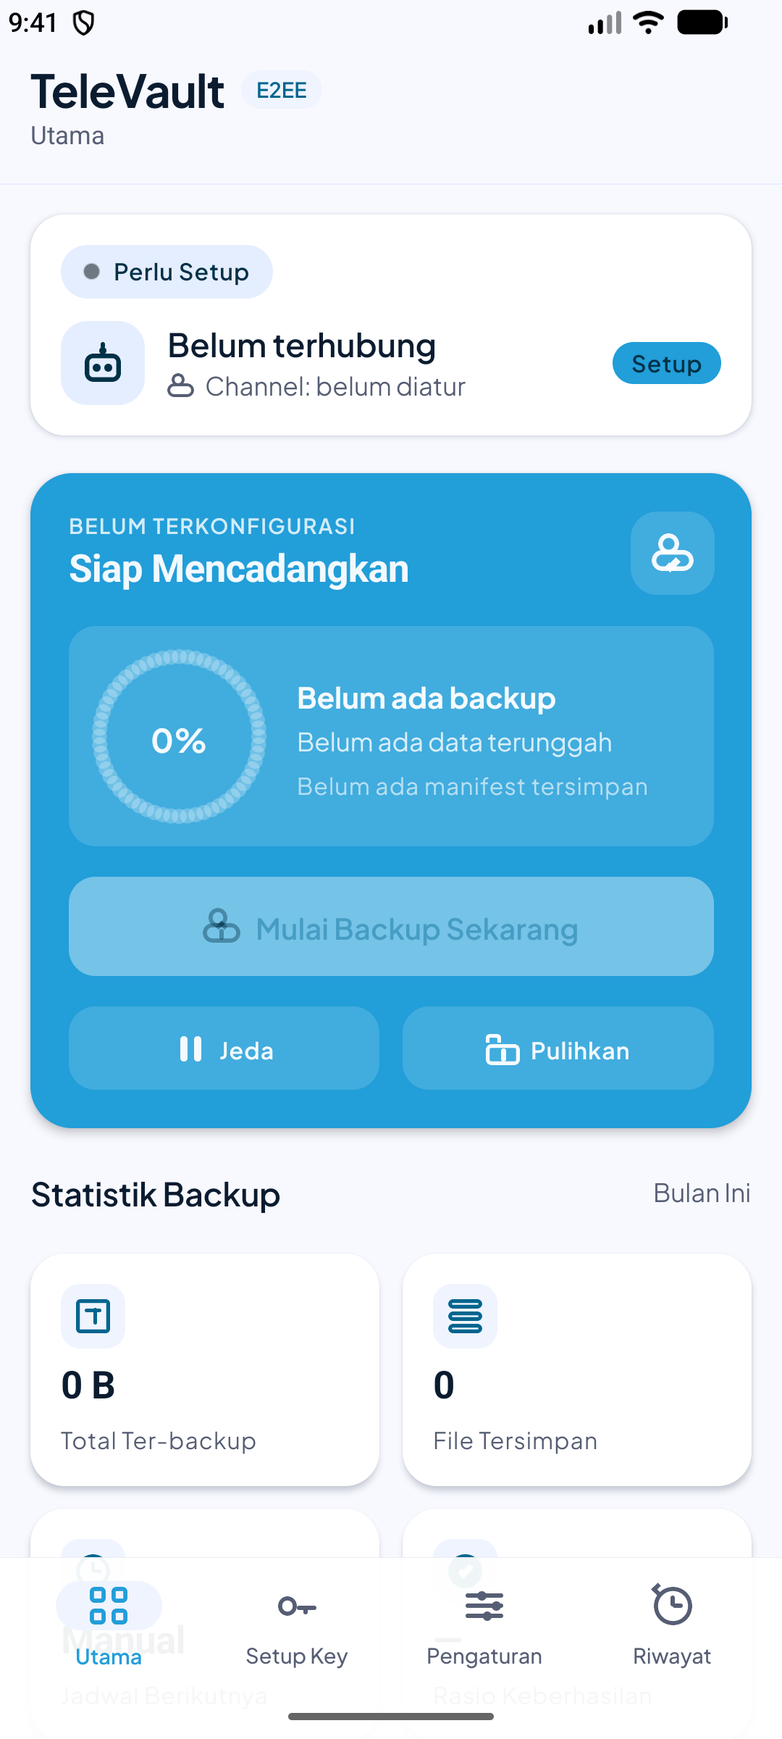
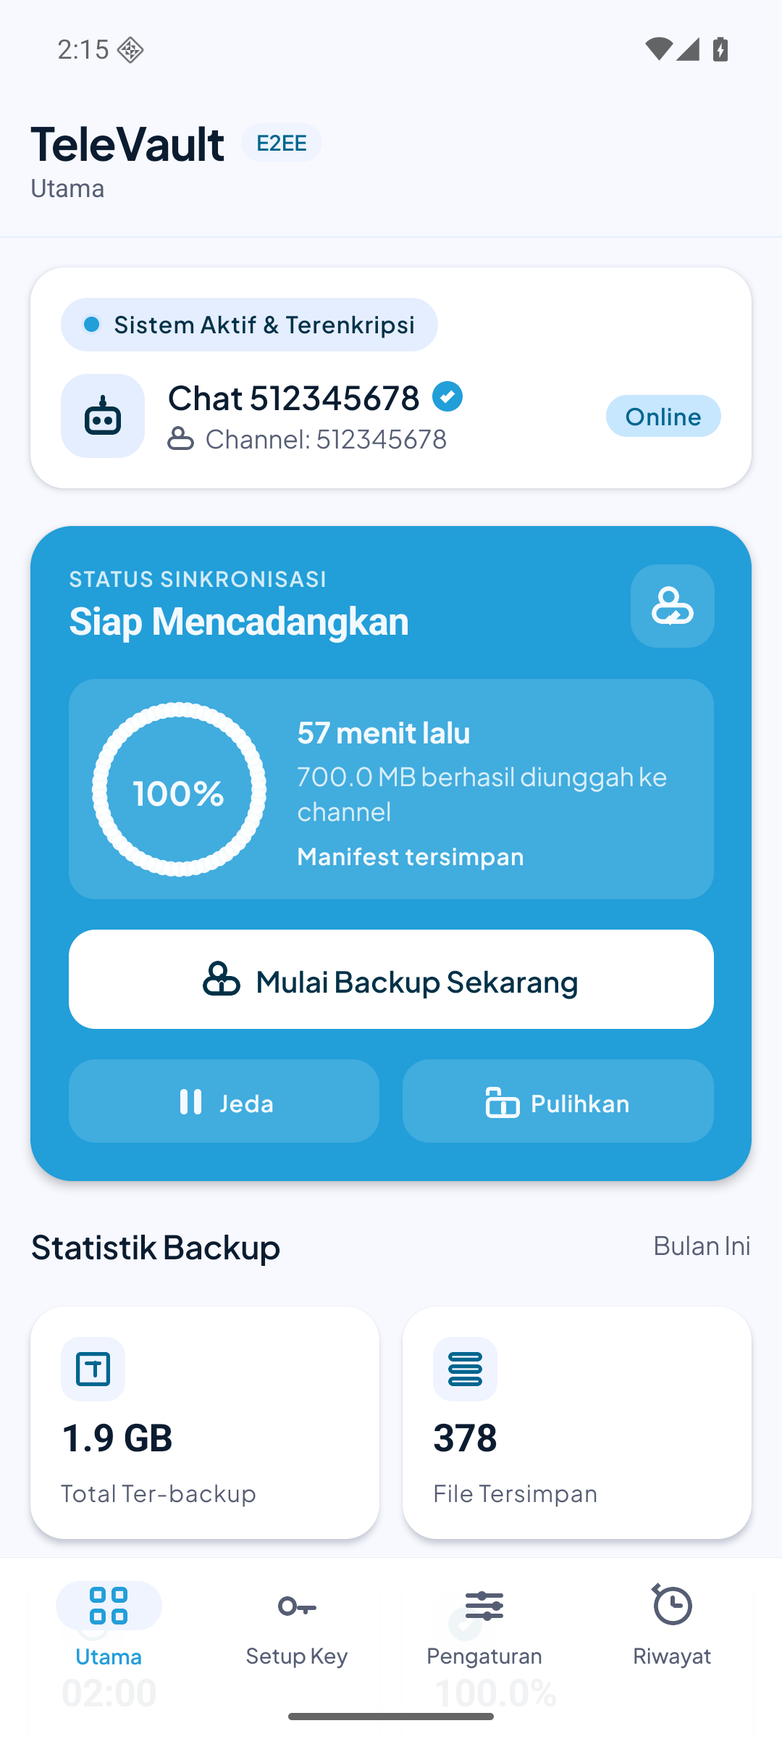
docs(readme): susun ulang README dan perbarui tangkapan layar
README dipecah jadi ringkasan, tabel tampilan, empat kelompok fitur, detail
teknis, instalasi, build, rilis, dan batasan, supaya bisa dipindai tanpa
membaca paragraf panjang. Badge dan footer menandai VibeCoded App.

Tangkapan layar diganti dengan build v1.6.2 di emulator Android 16: layar
Utama, Riwayat, Setup, dan Pengaturan, termasuk kartu progres dan popup
kegagalan yang sebelumnya belum ada. Nama berkas APK di panduan instalasi
dan checklist rilis mengikuti aset baru.

diff --git a/README.md b/README.md
@@ -1,78 +1,93 @@
 <div align="center">
 
-<img src="docs/logo.png" width="180" alt="TeleVault" />
+<img src="docs/logo.png" width="150" alt="TeleVault" />
 
 # TeleVault
 
-**Backup terenkripsi dari HP Android langsung ke Telegram**, tanpa server, tanpa langganan cloud.
-
-File besar dipotong, dienkripsi di perangkat, lalu dikirim sebagai dokumen ke chat bot pribadi kamu.
-Dari chat itu semuanya bisa dipulihkan lagi lewat aplikasi.
+**Backup terenkripsi dari HP Android langsung ke Telegram.** Tanpa server, tanpa langganan cloud.
 
 [![CI](https://github.com/ryznoxy/televault/actions/workflows/ci.yml/badge.svg)](https://github.com/ryznoxy/televault/actions/workflows/ci.yml)
 [![Release](https://github.com/ryznoxy/televault/actions/workflows/release.yml/badge.svg)](https://github.com/ryznoxy/televault/actions/workflows/release.yml)
+[![Rilis](https://img.shields.io/github/v/release/ryznoxy/televault?label=rilis)](https://github.com/ryznoxy/televault/releases)
 ![React Native](https://img.shields.io/badge/React%20Native-0.87-61DAFB)
 ![Platform](https://img.shields.io/badge/platform-Android-lightgrey)
+![VibeCoded App](https://img.shields.io/badge/VibeCoded-App-7C3AED)
 
 </div>
 
 ---
 
+## Ringkasan
+
+TeleVault memindahkan backup HP kamu ke chat bot Telegram pribadi. Berkas dipindai dari galeri atau folder pilihan, dienkripsi di perangkat, dipotong sesuai batas Bot API, lalu dikirim sebagai dokumen. Kunci enkripsi tidak pernah meninggalkan HP, dan pemulihan bisa dilakukan dari aplikasi atau dari skrip yang ikut terkirim.
+
+Cocok untuk yang ingin backup rutin tanpa menyewa storage: Telegram sudah jadi tempat penyimpanannya, aplikasi ini yang mengurus enkripsi, jadwal, dan pemulihan.
+
 ## Tampilan
 
 | Utama | Riwayat |
 |:---:|:---:|
-| ![Layar Utama](docs/home.png) | ![Layar Riwayat](docs/stats.png) |
+| <img src="docs/home.png" width="260" alt="Layar Utama" /> | <img src="docs/stats.png" width="260" alt="Layar Riwayat" /> |
 | **Setup** | **Pengaturan** |
-| ![Layar Setup](docs/setup.png) | ![Layar Pengaturan](docs/settings.png) |
+| <img src="docs/setup.png" width="260" alt="Layar Setup" /> | <img src="docs/settings.png" width="260" alt="Layar Pengaturan" /> |
 
 ## Fitur
 
-- **Enkripsi di perangkat**: AES-256-GCM, kunci dari PBKDF2-SHA256 (210.000 iterasi, salt 16 byte, IV 12 byte **per potongan**). Passphrase tidak pernah dikirim ke Telegram; hanya salt dan IV-nya.
-- **Kategori backup**: Photos, Videos, Documents, dan folder custom bebas lewat SAF (juga di Android). Contacts dan SMS menyusul (lihat [Batasan](#batasan-yang-diketahui)).
-- **Chunking**: file dipecah maksimal 49 MB per bagian supaya lolos batas 50 MB Bot API; dengan enkripsi aktif batasnya 16 MB supaya puncak RAM tetap rendah. Arsip dinamai `backup-<waktu>.zip` (contoh `backup-2026-10-20-09-31-00.zip`), potongannya `…zip.001`, `.002`, dan seterusnya. Berkas yang hanya jadi satu potongan diunggah dengan nama aslinya, jadi foto dan video tampil dengan pratinjau di Telegram, bukan sebagai `IMG_0001.jpg.001`. Setiap potongan dienkripsi sendiri, jadi backup multi-GB tidak perlu menahan seluruh arsip di memori.
-- **Backup inkremental**: file yang `mtime`-nya tidak berubah dilewati, jadi backup harian hanya mengunggah yang baru. Maksimal berkas per run bisa diatur (default 250); sisanya lanjut otomatis di run berikutnya.
-- **Kirim media langsung**: foto dan video di bawah batas ukuran (default 45 MB, maksimal 45 MB) dikirim apa adanya ke Telegram dengan nama aslinya, jadi langsung tampil dengan pratinjau; yang lebih besar tetap di-zip. Fitur ini butuh enkripsi mati, karena berkas terenkripsi (`.enc`) tidak bisa dibuka di Telegram dan potongan terenkripsinya dibatasi 16 MB. Nonaktifkan tombolnya kalau mau semua di-zip.
-- **Manifest dan skrip reassembly**: setiap arsip mengirim `<nama>.manifest.json` (ukuran, jumlah chunk, SHA-256, daftar IV, info enkripsi) plus skrip `.sh`/`.bat` untuk menyatukan potongan tanpa aplikasi.
-- **Restore one-tap dari bot**: pilih sesi di layar Pulihkan, manifest dan semua potongan diunduh otomatis dari chat bot, lalu gabung, verifikasi SHA-256, dekripsi per potongan, ekstrak zip. Tersedia untuk backup yang dibuat sejak v1.1.0 (app menyimpan `file_id` Telegram tiap potongan; DB lokal yang menyimpannya hilang kalau app dihapus). Backup lama tetap bisa dipulihkan manual: download potongan dan manifest dari Telegram, lalu "Pilih berkas backup". Iterasi PBKDF2 restore mengikuti yang tercatat di manifest (minimum 210.000), jadi backup lama tetap bisa dibuka.
-- **Uji Pemulihan (drill)**: satu tombol di Troubleshooting yang mengunduh arsip terkecil dari Telegram, mendekripsi, lalu mencocokkan hash-nya di folder sementara. Membuktikan backup benar-benar bisa dipulihkan, bukan sekadar berharap.
-- **Self-update**: app membaca versi terpasang langsung dari `PackageManager`, lalu membandingkan dengan rilis terbaru di [Releases](https://github.com/ryznoxy/televault/releases) (maksimal 1 cek sukses per jam, plus cek saat app dibuka kembali). Kalau ada versi baru, alert muncul melayang di atas layar mana pun - bukan cuma di tab - dengan tombol **Perbarui** dan **Nanti**, progres unduh, dan tombol batal. Rilis yang ditemukan disimpan, jadi restart app dalam jam tenang tetap menampilkannya. APK diverifikasi SHA-256 sebelum installer terbuka, dan dibuang kalau tidak cocok. Tombol **Cek Pembaruan** di Pengaturan melewati throttle dan memunculkan alert lagi walau sudah pernah ditutup.
-- **Modal "Apa baru"**: sekali sehabis update, ringkasan perubahan versi tampil di app (per versi, dari `src/update/whatsNew.ts`).
-- **Notifikasi status permanen**: satu notifikasi ongoing low-priority menampilkan kapan backup terakhir berjalan, bukti app tetap hidup di latar belakang. Saat backup berjalan, notifikasi foreground service memuat progres persen dan kecepatan upload. Disembunyikan otomatis saat otomasi dijeda atau mode manual.
-- **Tour persiapan latar belakang**: sehabis setup pertama, tour 3 langkah memandu izin tanpa optimasi baterai (dialog sistem langsung) dan autostart per merek HP. Bisa diulang dari Troubleshooting.
-- **Setup tanpa browser**: Chat ID dideteksi otomatis: kirim pesan ke bot, tekan Deteksi Otomatis, kolom terisi sendiri (wajib ID angka; bot tidak bisa mengirim ke @username untuk chat pribadi atau grup privat).
-- **Penjadwalan**: manual, interval (jam), jam tertentu tiap hari, atau hanya saat charging. Jadwal jam tertentu memakai alarm eksak bentuk alarm jam (`setAlarmClock`), bukan job periodik yang bisa digeser Doze, dan alarm itu yang menjalankan backup di latar belakang. Alarm dipasang ulang setelah HP reboot atau jam/zona waktu berubah, tanpa perlu app dibuka. Selama jadwal aktif, ikon alarm tampil di status bar (tap ikon itu membuka app); itu konsekuensi memakai alarm bentuk alarm jam, tidak ada suara atau dering yang dibunyikan app.
-- **Jalan di background**: `react-native-background-fetch` plus foreground service, termasuk headless task saat aplikasi tertutup. Backup jam tertentu berjalan di foreground service milik alarm eksaknya sendiri, karena Android 12 ke atas menolak service yang dimulai dari job latar belakang.
-- **Upload tahan putus**: retry dengan backoff (`Retry-After` 429 dihormati, dibatasi 60 detik); progres, kecepatan upload, dan estimasi sisa waktu tampil di layar Utama; riwayat sesi dan statistik tersimpan lokal (SQLite) dan bisa diekspor CSV.
-- **Hentikan di tengah jalan**: tombol Hentikan di kartu progres layar Utama dan di notifikasi backup berjalan. Permintaan dicek antar potongan dan antar berkas, jadi tidak ada potongan setengah terkirim; berkas yang sudah naik tetap tercatat, sisanya lanjut di backup berikutnya, dan sesi ditutup sebagai `partial`.
-- **Progres lintas proses**: layar Utama membaca sesi yang sedang berjalan dari DB (kolom `chunks_sent`/`chunks_total`), bukan hanya state layar, jadi backup otomatis yang dijalankan alarm tetap terlihat progresnya meski app dibuka belakangan.
-- **Jeda kirim adaptif**: gap antar kiriman mulai dari 1 detik dan naik ke jendela `retry_after` saat Bot API menolak (429), lalu turun perlahan lagi kalau kiriman lancar. Percobaan 429 lebih banyak daripada error biasa supaya potongan tidak dilewati dan arsip tidak jadi tidak lengkap.
-- **Troubleshoot**: layar diagnostik untuk izin, koneksi bot, panduan baterai per OEM, kapan sistem terakhir membangunkan app, plus log error ringan (ring buffer 20 entri) supaya kegagalan yang tertelan tetap kelihatan. Ketuk "Kegagalan terakhir" untuk melihat alasan lengkapnya di popup.
-- **Wifi-only** (dicek di semua jalur: tombol manual, alarm jadwal, dan JobScheduler) dan passphrase strength check.
-- **Tema terang dan gelap**: toggle dark mode di Settings, semua layar ter-tokenisasi mengikuti.
+### Backup dan enkripsi
+
+- **Kategori**: Photos, Videos, Documents, dan folder sendiri lewat pemilih folder Android (SAF).
+- **Inkremental**: berkas yang tidak berubah dilewati, jadi backup harian hanya mengunggah yang baru.
+- **Batas per run**: jumlah berkas dibagi rata ke kategori yang punya berkas baru, sisanya lanjut di run berikutnya.
+- **Enkripsi di perangkat**: AES-256-GCM, kunci dari PBKDF2-SHA256, satu IV untuk setiap potongan.
+- **Kirim media langsung**: foto dan video di bawah 45 MB dikirim dengan nama aslinya sehingga tampil dengan pratinjau di Telegram.
+- **Zip opsional**: sisanya digabung per kategori, lalu dipotong maksimal 49 MB per bagian.
+- **Manifest dan skrip**: setiap arsip membawa manifest JSON plus skrip `.sh` dan `.bat` untuk menyatukan potongan tanpa aplikasi.
+
+### Penjadwalan dan latar belakang
+
+- **Empat mode**: manual, interval jam, jam tertentu tiap hari, atau hanya saat charging.
+- **Alarm eksak**: jadwal jam tertentu memakai alarm bentuk alarm jam, jadi tidak digeser Doze.
+- **Tahan reboot**: alarm dipasang ulang setelah HP reboot, jam diubah, atau zona waktu berpindah.
+- **Jalan tanpa app terbuka**: backup berjalan di foreground service milik alarm, termasuk headless task.
+- **Hanya Wi-Fi**: diperiksa di semua jalur, jadi backup terjadwal pun tidak jalan di data seluler.
+- **Hentikan di tengah jalan**: tombol Hentikan di layar Utama dan di notifikasi; potongan tidak pernah terkirim setengah.
+- **Progres lintas proses**: layar Utama membaca sesi berjalan dari database, jadi backup otomatis tetap terlihat progresnya.
+
+### Pemulihan
+
+- **Restore one-tap**: pilih sesi, unduh manifest dan semua potongan dari chat, gabung, verifikasi SHA-256, dekripsi, ekstrak.
+- **Restore manual**: unduh berkas dari Telegram lalu pilih lewat aplikasi, untuk backup lama atau HP baru.
+- **Uji pemulihan**: satu tombol di Troubleshooting yang mengunduh arsip terkecil, mendekripsi, dan mencocokkan hash-nya.
+- **Riwayat dan statistik**: sesi tersimpan di SQLite lokal, rasio keberhasilan dihitung dari run selesai, bisa diekspor CSV.
+
+### Antarmuka dan pembaruan
+
+- **Notifikasi status**: satu notifikasi senyap yang menunjukkan app aktif dan kapan backup terakhir berjalan.
+- **Notifikasi progres**: persen dan kecepatan unggah selama backup berjalan.
+- **Alert pembaruan**: muncul di atas layar mana pun, dengan tombol Perbarui dan Nanti, progres unduh, dan tombol batal.
+- **Modal apa baru**: ringkasan perubahan tampil sekali setelah update.
+- **Troubleshooting**: status izin, panduan baterai per merek, sumber wake terakhir, dan popup kegagalan terakhir.
+- **Tour persiapan**: tiga langkah memandu izin bebas optimasi baterai dan autostart setelah setup.
+- **Tema terang dan gelap**: semua layar mengikuti token warna.
 
 ## Alur backup
 
 ```
-scan kategori → saring file berubah → (opsional) zip → potong 49 MB → enkripsi per potongan
-   → upload sendDocument ke chat bot (simpan file_id tiap potongan & manifest) → catat sesi di SQLite
+scan kategori -> saring berkas berubah -> (opsional) zip -> potong 49 MB
+   -> enkripsi per potongan -> kirim ke chat bot -> simpan file_id dan sesi
 ```
 
 ## Instalasi
 
-APK siap install ada di halaman [**Releases**](https://github.com/ryznoxy/televault/releases). Ambil `app-release.apk` dari rilis terbaru, buka, dan install (Android akan minta konfirmasi "Install anyway" dari Play Protect, normal untuk APK di luar Play Store).
+1. Unduh `TeleVault-v<versi>.apk` dari halaman [**Releases**](https://github.com/ryznoxy/televault/releases).
+2. Buka berkasnya dan setujui pemasangan. Android akan menampilkan peringatan "Install anyway", normal untuk APK yang tidak berasal dari toko aplikasi.
+3. Buka app, tempel token bot dari [@BotFather](https://t.me/BotFather), kirim pesan ke bot, lalu tekan **Deteksi Otomatis** untuk mengisi chat ID.
 
-Update berikutnya tidak perlu download manual lagi: buka app, kalau ada versi baru alert akan muncul di atas layar dengan tombol Perbarui.
+Update berikutnya tidak perlu unduh manual: alert di dalam app menawarkan tombol Perbarui, dan APK diverifikasi SHA-256 sebelum installer dibuka.
 
-## Prasyarat (untuk build dari source)
+## Build dari source
 
-- Node.js >= 22.11, JDK 17, Android SDK (mengikuti [set up environment](https://reactnative.dev/docs/set-up-your-environment)).
-- Bot Telegram: buat lewat [@BotFather](https://t.me/BotFather). Chat ID tidak perlu dicari manual, kirim pesan ke bot lalu di layar Setup tekan **Deteksi Otomatis**.
-
-> [!IMPORTANT]
-> Token bot, chat ID, dan passphrase enkripsi disimpan di keychain atau keystore perangkat lewat `react-native-keychain`, bukan di source atau `.env`. Ketiganya hanya dibaca saat backup atau restore berjalan dan tidak pernah dikirim ke Telegram. Menghapus aplikasi menghapus keychain-nya, jadi simpan passphrase di tempat lain juga.
-
-## Menjalankan
+Prasyarat: Node.js 22.11 atau lebih baru, JDK 17, Android SDK dengan platform 37 dan build-tools 37.
 
 ```sh
 npm install
@@ -80,9 +95,16 @@ npm start          # Metro
 npm run android    # terminal lain
 ```
 
-Di aplikasi: layar Setup, tempel token bot, kirim pesan ke bot, Deteksi Otomatis chat ID, kirim pesan tes, pilih kategori dan jadwal serta passphrase, lalu backup pertama. Selesai setup, tour persiapan latar belakang muncul otomatis.
+Build APK release tanpa Metro:
 
-## Pengembangan
+```sh
+cd android && ./gradlew assembleRelease
+```
+
+> [!IMPORTANT]
+> Token bot, chat ID, dan passphrase disimpan di keychain atau keystore perangkat lewat `react-native-keychain`, bukan di source atau `.env`. Ketiganya hanya dibaca saat backup atau restore berjalan dan tidak pernah dikirim ke Telegram. Menghapus aplikasi menghapus keychain-nya, jadi simpan passphrase di tempat lain juga.
+
+Pemeriksaan sebelum commit:
 
 ```sh
 npm test           # Jest
@@ -90,15 +112,15 @@ npm run typecheck  # tsc --noEmit
 npm run lint       # ESLint
 ```
 
-Ketiganya juga jalan di CI (`.github/workflows/ci.yml`) untuk setiap push ke `main` dan setiap pull request.
+Ketiganya juga jalan di CI untuk setiap push ke `main` dan setiap pull request.
 
-Struktur:
+## Struktur
 
 ```
 src/
-  backup/      scan, chunker, crypto, hasher, manifest, zip, upload retry, runner backup, restore, drill
-  background/  scheduler, foreground service, headless task, status notifikasi, panduan OEM, aturan kapan backup jalan
-  components/  komponen UI, alert update, modal "Apa baru", tour latar belakang
+  backup/      scan, chunker, crypto, hasher, manifest, zip, upload retry, runner, restore, drill
+  background/  scheduler, foreground service, headless task, notifikasi status, aturan kapan backup jalan
+  components/  komponen UI, alert update, modal apa baru, tour latar belakang
   db/          op-sqlite: schema dan repository sessions/files/chunks
   net/         klien Bot API (token selalu di-redact dari error)
   navigation/  root navigator
@@ -111,27 +133,27 @@ __tests__/     unit test per modul
 
 ## Rilis
 
-Rilis otomatis lewat GitHub Actions: **push tag `vX.Y.Z` → workflow [`release.yml`](.github/workflows/release.yml) build APK signed plus `SHA256SUMS`, lalu tempel keduanya ke GitHub Release**. App yang sudah ter-install mendeteksinya lewat alert self-update.
+Rilis otomatis lewat GitHub Actions: push tag `vX.Y.Z`, workflow [`release.yml`](.github/workflows/release.yml) membangun APK bertanda tangan, mengganti namanya jadi `TeleVault-vX.Y.Z.apk`, lalu melampirkan APK dan `SHA256SUMS` ke GitHub Release.
 
-Persiapan sekali saja (mesin rilis atau repo):
+Persiapan sekali saja:
 
-1. Buat upload keystore sekali (simpan file dan password-nya; kehilangan keduanya berarti tidak bisa merilis update lagi):
+1. Buat upload keystore dan simpan berkas beserta password-nya. Kehilangan keduanya berarti tidak bisa merilis update lagi.
 
    ```sh
    keytool -genkeypair -v -keystore televault-upload.keystore \
      -alias televault -keyalg RSA -keysize 2048 -validity 10000
    ```
 
-2. Set 4 repo secrets (**Settings → Secrets and variables → Actions**):
+2. Set empat repo secrets di **Settings, Secrets and variables, Actions**:
 
    | Secret | Isi |
    |---|---|
-   | `TELEVAULT_STORE_FILE_B64` | keystore di-encode base64 (`base64 -w0 televault-upload.keystore`) |
+   | `TELEVAULT_STORE_FILE_B64` | keystore dalam base64 (`base64 -w0 televault-upload.keystore`) |
    | `TELEVAULT_STORE_PASSWORD` | password keystore |
-   | `TELEVAULT_KEY_ALIAS` | alias key (mis. `televault`) |
+   | `TELEVAULT_KEY_ALIAS` | alias key, misalnya `televault` |
    | `TELEVAULT_KEY_PASSWORD` | password key |
 
-3. Untuk build release lokal (di luar CI), taruh propertinya di `~/.gradle/gradle.properties`, **jangan** di `android/gradle.properties` yang ikut ter-commit:
+3. Untuk build release lokal, taruh propertinya di `~/.gradle/gradle.properties`, jangan di `android/gradle.properties` yang ikut ter-commit:
 
    ```properties
    TELEVAULT_STORE_FILE=/absolute/path/televault-upload.keystore
@@ -140,51 +162,50 @@ Persiapan sekali saja (mesin rilis atau repo):
    TELEVAULT_KEY_PASSWORD=...
    ```
 
-   Kalau salah satu properti kosong, build release **gagal** dan tidak diam-diam memakai debug key.
+   Kalau salah satu kosong, build release gagal dan tidak diam-diam memakai debug key.
 
 Rilis versi baru:
 
 ```sh
-git tag v1.3.2 && git push origin v1.3.2
+git tag v1.6.2 && git push origin v1.6.2
 ```
 
-`versionName` dan `versionCode` di-stamp otomatis dari tag (versionCode = semver encoded: `v1.2.3` → `10203`), tidak perlu edit `build.gradle` per rilis.
+`versionName` dan `versionCode` di-stamp otomatis dari tag. versionCode mengikuti pola semver: `v1.6.2` jadi `10602`.
+
+Checklist lengkap ada di [`docs/release-checklist.md`](docs/release-checklist.md).
 
 ## Batasan yang diketahui
 
-- **7z belum didukung**: writer 7z tidak tersedia di Hermes; opsi format ditampilkan tapi dinonaktifkan (`src/backup/zipper.ts`).
-- **49 MB per chunk**: batas Bot API publik (16 MB saat enkripsi aktif, demi RAM). Server Bot API lokal bisa menaikkan ini, tapi belum jadi target build.
-- **Contacts dan SMS belum ada**: barisnya tampil nonaktif ("Segera hadir"); belum ada reader-nya.
-- **Documents tidak terbaca di Android 11+**: sistem menutup folder `Download` dan `Documents` publik dari aplikasi biasa, jadi kategori ini membaca 0 berkas di perangkat modern; ringkasan backup memberitahukannya.
-- **Android 15+ membatasi foreground service `dataSync` kurang lebih 6 jam per hari**: backup yang lebih lama dari itu bisa dihentikan sistem; jalankan ulang atau kecilkan jumlah berkas per run (`maxFilesPerRun`).
+- **7z belum didukung**: writer 7z tidak tersedia di Hermes, opsi format ditampilkan tapi nonaktif.
+- **49 MB per potongan**: batas Bot API publik, dan 16 MB saat enkripsi aktif demi RAM.
+- **Kirim langsung butuh enkripsi mati**: berkas `.enc` tidak bisa dibuka di Telegram.
+- **Contacts dan SMS belum ada**: barisnya tampil nonaktif, belum ada pembacanya.
+- **Documents kosong di Android 11+**: sistem menutup folder publik, kategori ini membaca 0 berkas.
+- **Foreground service dibatasi di Android 15+**: backup yang berjalan lebih dari sekitar 6 jam bisa dihentikan sistem.
 - **Jadwal global, bukan per folder**: satu jadwal untuk semua kategori terpilih.
-- **Jam tertentu butuh izin alarm eksak**: Android 12 ke atas membatasi alarm eksak, jadi app memakai izin alarm (di Android 13+, `USE_EXACT_ALARM` diberikan tanpa dialog). Kalau izin itu dicabut, penjadwalan turun ke alarm tidak eksak dan bisa bergeser beberapa menit.
-- **Job periodik tetap tidak eksak**: mode interval dan charging masih lewat JobScheduler `react-native-background-fetch`; Doze dan pembatasan merek (mis. MIUI autostart) bisa menundanya.
-- **Alarm eksak masih bisa ditahan sebagian merek**: alarm bentuk alarm jam lolos Doze di Android stok dan umumnya dihormati MIUI, tapi pembatasan merek tetap bisa menahannya. Baris Troubleshooting "Jadwal terakhir bangun" kini menuliskan sumbernya: "alarm eksak" kalau alarmnya sendiri yang membangunkan, "JobScheduler" kalau yang jalan justru job periodik yang tidak eksak; itu tanda alarmnya tertahan. Autostart dan bebas optimasi baterai mengurangi, bukan menghilangkan.
-- **Restore one-tap butuh DB lokal**: `file_id` potongan disimpan di SQLite app. Hapus app berarti hilang; restore HP baru tetap bisa lewat jalur manual (download dari Telegram).
-- **Autostart tidak bisa diaktifkan secara programatik**: tidak ada API Android untuk itu; app hanya bisa membuka layar setelan merek yang tepat, sisanya keputusan pengguna.
-- **APK debug butuh Metro; pakai build release**: hanya `assembleRelease` yang membundel JS. APK di Releases sudah release build.
-- **Package Kotlin masih `com.telebotbackuprn`**, tapi id yang dipasang dan dipublikasikan adalah `com.televault.app`; id ini permanen setelah rilis pertama.
+- **Jam tertentu butuh izin alarm**: kalau izin dicabut, jadwal turun ke alarm tidak eksak.
+- **Mode interval dan charging tidak eksak**: keduanya lewat JobScheduler, jadi Doze dan pembatasan merek bisa menundanya.
+- **Restore one-tap butuh database lokal**: `file_id` potongan disimpan di SQLite, hilang kalau app dihapus.
+- **Autostart tidak bisa diaktifkan dari app**: Android tidak menyediakan API-nya, app hanya membuka layar setelan merek.
+- **APK debug butuh Metro**: hanya build release yang membundel JavaScript.
+- **Package Kotlin masih `com.telebotbackuprn`**: id yang dipasang tetap `com.televault.app`, permanen setelah rilis pertama.
 
-Checklist rilis lengkap ada di [`docs/release-checklist.md`](docs/release-checklist.md).
+## Detail teknis
 
-## Git
-
-`main` stabil. Setiap fitur atau perbaikan di branch sendiri:
-
-```sh
-git switch main && git pull --ff-only
-git switch -c feat/<slug>
-# ... commit kecil, Conventional Commits: feat(backup): ...
-git push -u origin feat/<slug>
-git switch main && git merge --no-ff feat/<slug>
-```
-
-Branch tidak dihapus sampai fitur terverifikasi di device, supaya bug susulan bisa di-fix di branch yang sama.
+- Potongan 49 MB karena batas unggah Bot API publik 50 MB. Saat enkripsi aktif batasnya turun ke 16 MB, karena jalur kripto di JS memegang beberapa salinan satu potongan sekaligus.
+- Berkas yang hanya jadi satu potongan diunggah dengan nama aslinya. Berkas yang benar-benar dipecah memakai akhiran `.001`, `.002`, dan restore menerima kedua bentuk nama.
+- Manifest versi 2.0 menyimpan nama, ukuran, jumlah potongan, SHA-256 arsip, dan daftar IV per potongan.
+- Jadwal jam tertentu memakai `setAlarmClock`, bentuk alarm yang tidak ditunda Doze dan diperlakukan seperti alarm pengguna oleh pengelola baterai merek. Konsekuensinya ikon alarm tampil di status bar selama jadwal aktif. Tidak ada suara yang dibunyikan app.
+- Android 12 ke atas menolak foreground service yang dimulai dari latar belakang, jadi alarm itu sendiri yang memulai service, bukan job periodik.
+- Gap antar kiriman mulai dari 1 detik, naik ke jendela `retry_after` saat Bot API membalas 429, lalu turun perlahan lagi.
+- Troubleshooting menyimpan 20 entri log terakhir, supaya kegagalan yang tertelan sistem tetap terlihat.
 
 ---
 
 <div align="center">
-<sub>TeleVault: backup kamu, kunci kamu, channel kamu.</sub><br/>
-<sub>Vibe coded dengan Claude.</sub>
+
+<sub>TeleVault: backup kamu, kunci kamu, channel kamu.</sub>
+
+<sub><b>VibeCoded App</b> - dibangun bersama agen AI, bukan diketik sendirian.</sub>
+
 </div>

diff --git a/docs/release-checklist.md b/docs/release-checklist.md
@@ -18,9 +18,9 @@ Dipakai sekali per rilis. Centang berurutan; jangan lompat ke Play Console sebel
 - [ ] `cd android && ./gradlew bundleRelease` → BUILD SUCCESSFUL
 - [ ] AAB ada di `android/app/build/outputs/bundle/release/app-release.aab`
 - [ ] Sertifikat AAB/APK adalah upload key, bukan debug:
-      `apksigner verify --print-certs app-release.apk` → SHA-256 bukan `FA:C6:17:...:3B:9C`
-- [ ] `aapt2 dump badging app-release.apk | Select-String package` → `com.televault.app`, versi benar
-- [ ] `aapt2 dump permissions app-release.apk` → tidak ada `REQUEST_IGNORE_BATTERY_OPTIMIZATIONS`, `USE_BIOMETRIC`, `WRITE_EXTERNAL_STORAGE`
+      `apksigner verify --print-certs TeleVault-v<versi>.apk` → SHA-256 bukan `FA:C6:17:...:3B:9C`
+- [ ] `aapt2 dump badging TeleVault-v<versi>.apk | Select-String package` → `com.televault.app`, versi benar
+- [ ] `aapt2 dump permissions TeleVault-v<versi>.apk` → tidak ada `REQUEST_IGNORE_BATTERY_OPTIMIZATIONS`, `USE_BIOMETRIC`, `WRITE_EXTERNAL_STORAGE`
 - [ ] Ikon launcher bukan robot React Native (violet + gembok), ikon adaptif bulat benar di Android 8+
 - [ ] Upload key + password tersimpan di dua tempat (password manager + cadangan offline). Hilang = tidak bisa merilis update lagi.
 
